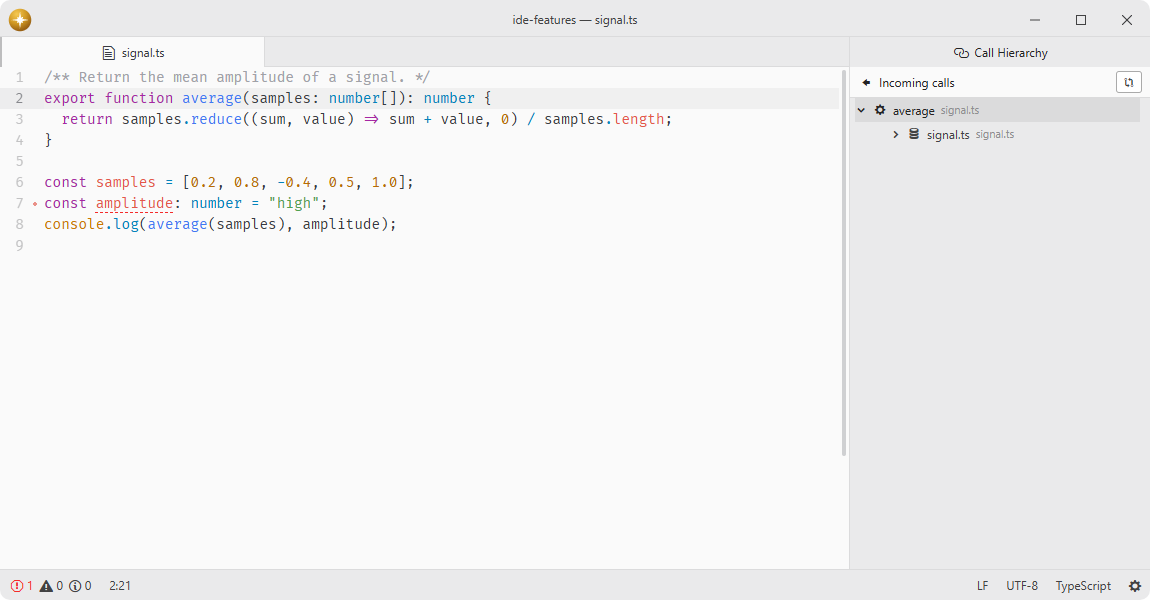
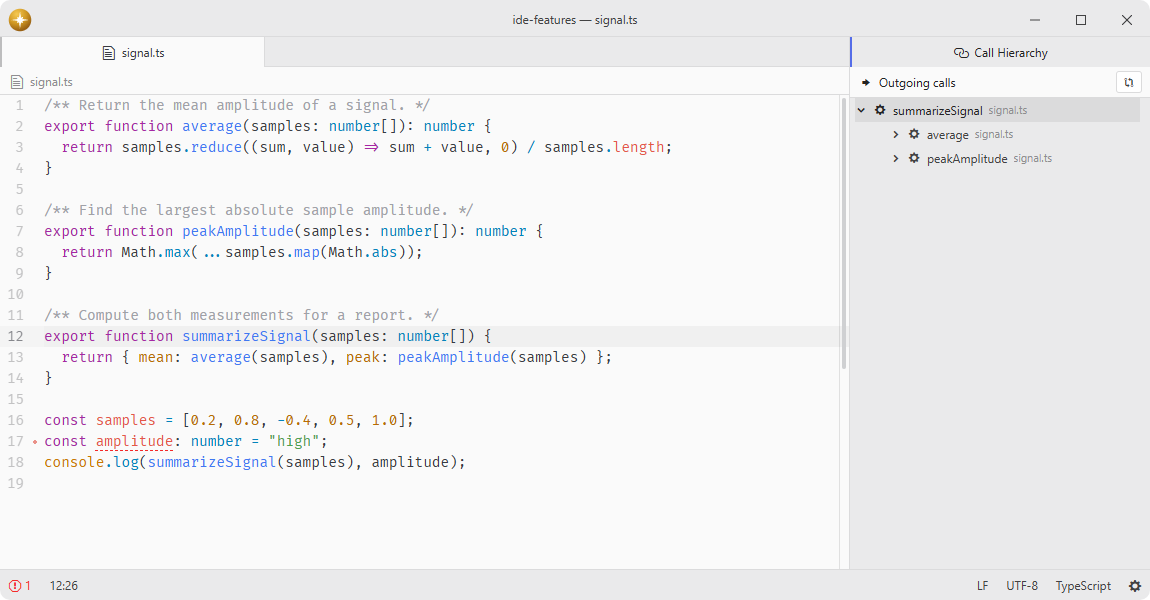
Refresh reviewed scrollbar demo
[skip ci]

diff --git a/README.md b/README.md
@@ -16,7 +16,7 @@ Both hierarchies share one dock item, powered by the bundled language-server hub
 
 ![Explore the incoming calls of a TypeScript function.](.github/demo.png)
 
-![Explore the incoming calls of a TypeScript function.](.github/demo-2.png)
+![Explore the outgoing calls of a TypeScript function.](.github/demo-2.png)
 
 ## Installation
 
